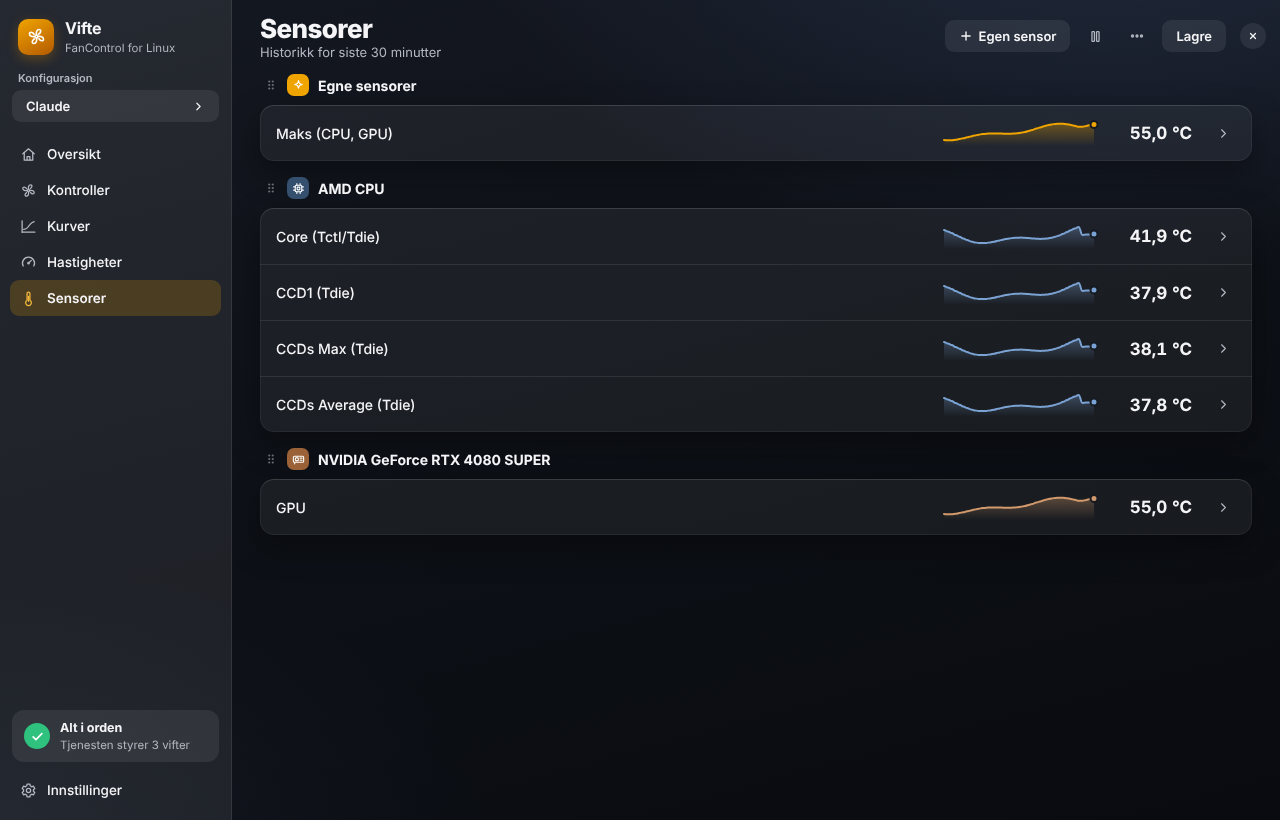
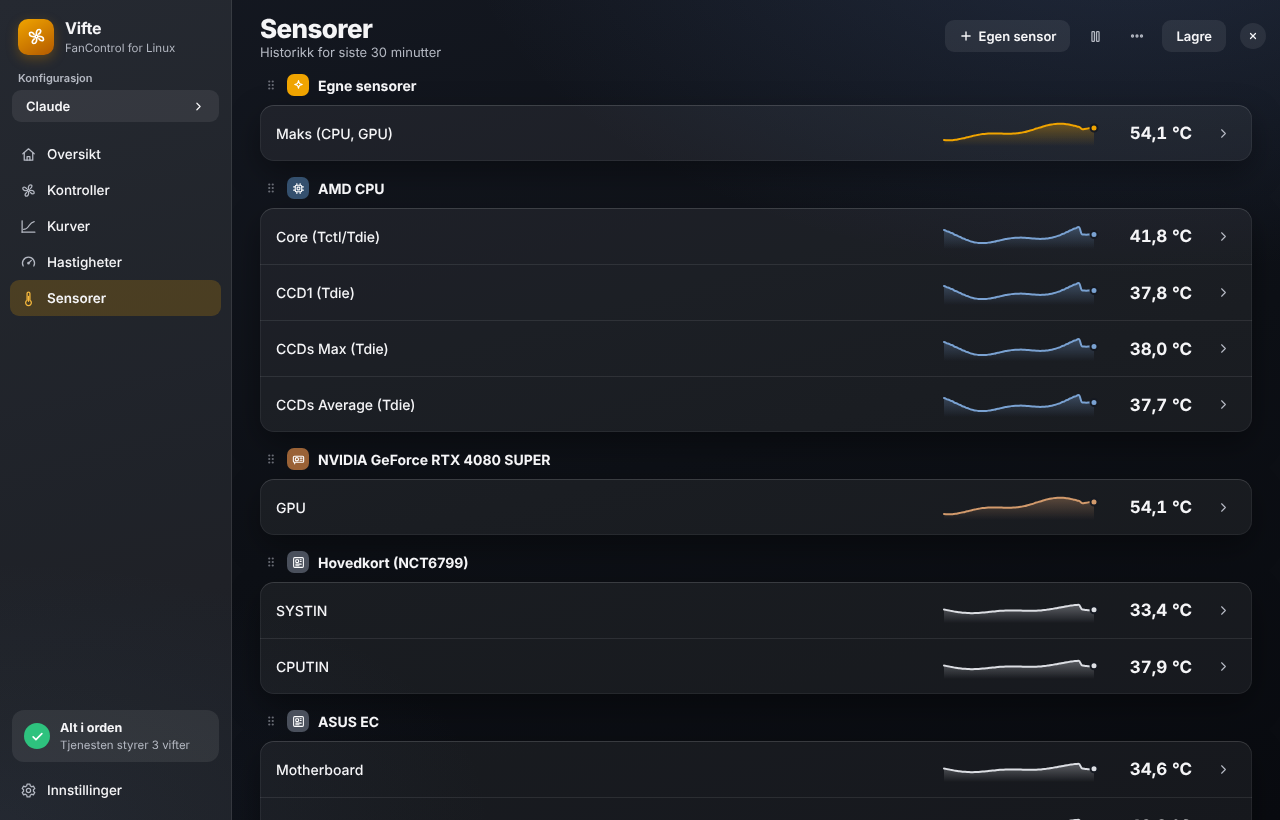
Redesign: temperaturkort for hovedkort og lagring på Oversikt
Oversikt viser nå fire temperaturkort: CPU, GPU, Hovedkort (valgfri
hovedkortsensor) og Lagring (varmeste disk, alle disker eller én valgt).
Snitt viftehastighet flyttes til Vifter-kortet og sikkerhetsstatus til
Beskyttelse-kortet. Spesifikasjon (beslutning 14), prototype og
skjermbilder er oppdatert.

Claude-Session: https://claude.ai/code/session_01DyDNbfoLzsxsyVxUrALKfq

diff --git a/docs/redesign/prototype.html b/docs/redesign/prototype.html
@@ -6,7 +6,7 @@
 <title>Vifte – prototype</title>
 <link rel="stylesheet" href="https://fonts.googleapis.com/css2?family=Inter:wght@400;500;600;700;800&display=swap">
 <style>
-:root { --cpu:#7AA2D2; --gpu:#D29A6C; --cpu-b:#34506E; --gpu-b:#9A6236; --fan:#7AA2D2; --fan-b:#34506E; --neutral:#DCDEE3; --idle:rgba(220,222,227,0.38); --acc:#F0A400; --acctext:#F5B83D; --calm:#2EC27E; --warm:#E5A50A; --hot:#E66100; --emerg:#E01B24; }
+:root { --cpu:#7AA2D2; --gpu:#D29A6C; --cpu-b:#34506E; --gpu-b:#9A6236; --fan:#7AA2D2; --fan-b:#34506E; --neutral:#DCDEE3; --idle:rgba(220,222,227,0.38); --neutral-b:#4A505C; --acc:#F0A400; --acctext:#F5B83D; --calm:#2EC27E; --warm:#E5A50A; --hot:#E66100; --emerg:#E01B24; }
 body[data-theme="dark"] {
   --bg: radial-gradient(75% 65% at 88% -12%, rgba(96,128,190,0.20) 0%, transparent 70%), radial-gradient(55% 45% at 0% 100%, rgba(70,90,130,0.12) 0%, transparent 70%), linear-gradient(165deg, #141821 0%, #0D1016 55%, #090B10 100%);
   --side: rgba(255,255,255,0.075); --card: rgba(255,255,255,0.055); --solid:#161A22; --popover:#1E222B; --text:#F5F5F7; --sub:#B4B8C2;
@@ -15,7 +15,7 @@ body[data-theme="dark"] {
   --glow: 26; color-scheme: dark;
 }
 body[data-theme="light"] {
-  --cpu:#2F5A8A; --gpu:#9A5B26; --cpu-b:#34506E; --gpu-b:#9A6236; --fan:#2F5A8A; --fan-b:#34506E; --neutral:#2E3138; --idle:rgba(46,49,56,0.32);  --acc:#C47F00; --acctext:#8F5D00;
+  --cpu:#2F5A8A; --gpu:#9A5B26; --cpu-b:#34506E; --gpu-b:#9A6236; --fan:#2F5A8A; --fan-b:#34506E; --neutral:#2E3138; --idle:rgba(46,49,56,0.32); --neutral-b:#5B616C;  --acc:#C47F00; --acctext:#8F5D00;
   --bg: radial-gradient(75% 65% at 88% -12%, rgba(120,150,205,0.22) 0%, transparent 70%), linear-gradient(165deg, #F2F4F8 0%, #E8EBF0 100%);
   --side: rgba(255,255,255,0.62); --card: rgba(255,255,255,0.66); --solid:#FFFFFF; --popover:#FFFFFF; --text:#1D1D1F; --sub:#55585E;
   --fill: rgba(0,0,0,0.055); --track: rgba(0,0,0,0.08); --line: rgba(0,0,0,0.08); --off:#C9CBD0; --sel: rgba(196,127,0,0.16);
@@ -214,6 +214,8 @@ const P = {
  chip:'<rect x="6" y="6" width="12" height="12" rx="2"/><rect x="9.5" y="9.5" width="5" height="5" rx="1"/><path d="M9 3v3M15 3v3M9 18v3M15 18v3M3 9h3M3 15h3M18 9h3M18 15h3"/>',
  gpu:'<rect x="2.5" y="6" width="19" height="11" rx="2"/><circle cx="9" cy="11.5" r="3"/><path d="M15 9.5h3.5M15 13.5h3.5M5 17v3"/>',
  grip:'<circle cx="9" cy="6" r="1"/><circle cx="15" cy="6" r="1"/><circle cx="9" cy="12" r="1"/><circle cx="15" cy="12" r="1"/><circle cx="9" cy="18" r="1"/><circle cx="15" cy="18" r="1"/>',
+ board:'<rect x="3" y="3" width="18" height="18" rx="2"/><rect x="7" y="7" width="5" height="5" rx="1"/><path d="M15 7h2M15 10h2M7 15h10M7 18h6"/>',
+ disk:'<rect x="3" y="7" width="18" height="10" rx="2"/><path d="M7 12h.01M11 12h.01M15 10.5v3M18 10.5v3"/>',
  copy:'<rect x="8" y="8" width="12" height="12" rx="2"/><path d="M16 8V5a1 1 0 0 0-1-1H5a1 1 0 0 0-1 1v10a1 1 0 0 0 1 1h3"/>'
 };
 const ic = (n, s = 16, sw = 1.8) => `<svg width="${s}" height="${s}" viewBox="0 0 24 24" fill="none" stroke="currentColor" stroke-width="${sw}" stroke-linecap="round" stroke-linejoin="round" aria-hidden="true">${P[n]}</svg>`;
@@ -228,15 +230,24 @@ const S = {
   config: "Claude", configs: ["Claude", "Stille", "Spill"],
   settings: { failsafe: true, failsafeTemp: 95, lost: true, lostSpeed: 80, alerts: true, alertSensor: "cpu", alertTemp: 85,
               showOverview: true, tint: false, trayTemps: true, autostart: true, claude: false, lang: "Norsk" },
-  temps: { cpu: 41.9, gpu: 54.0 }, hist: { cpu: mkHist(42, 2, 0), gpu: mkHist(53, 1.6, 1.3) },
+  temps: { cpu: 41.9, gpu: 54.0, mb: 33.5, nv0: 38.2, nv1: 43.1 },
+  hist: { cpu: mkHist(42, 2, 0), gpu: mkHist(53, 1.6, 1.3), mb: mkHist(33.5, .5, .4), nv0: mkHist(38.2, .7, 2.1), nv1: mkHist(43.1, .8, 3.3) },
   sensors: [
-    { id: "cpu", group: "AMD CPU", name: "Core (Tctl/Tdie)", hue: "cpu", off: 0 },
-    { id: "ccd1", group: "AMD CPU", name: "CCD1 (Tdie)", hue: "cpu", off: -4 },
-    { id: "ccdmax", group: "AMD CPU", name: "CCDs Max (Tdie)", hue: "cpu", off: -3.8 },
-    { id: "ccdavg", group: "AMD CPU", name: "CCDs Average (Tdie)", hue: "cpu", off: -4.1 },
-    { id: "gpu", group: "NVIDIA GeForce RTX 4080 SUPER", name: "GPU", hue: "gpu", off: 0 },
+    { id: "cpu", group: "AMD CPU", name: "Core (Tctl/Tdie)", hue: "cpu", base: "cpu", off: 0 },
+    { id: "ccd1", group: "AMD CPU", name: "CCD1 (Tdie)", hue: "cpu", base: "cpu", off: -4 },
+    { id: "ccdmax", group: "AMD CPU", name: "CCDs Max (Tdie)", hue: "cpu", base: "cpu", off: -3.8 },
+    { id: "ccdavg", group: "AMD CPU", name: "CCDs Average (Tdie)", hue: "cpu", base: "cpu", off: -4.1 },
+    { id: "gpu", group: "NVIDIA GeForce RTX 4080 SUPER", name: "GPU", hue: "gpu", base: "gpu", off: 0 },
+    { id: "mb_sys", group: "Hovedkort (NCT6799)", name: "SYSTIN", hue: "neutral", base: "mb", off: 0, board: true },
+    { id: "mb_cpu", group: "Hovedkort (NCT6799)", name: "CPUTIN", hue: "neutral", base: "mb", off: 4.5, board: true },
+    { id: "ec_mb", group: "ASUS EC", name: "Motherboard", hue: "neutral", base: "mb", off: 1.2, board: true },
+    { id: "ec_chip", group: "ASUS EC", name: "Chipset", hue: "neutral", base: "mb", off: 14.8, board: true },
+    { id: "ec_vrm", group: "ASUS EC", name: "VRM", hue: "neutral", base: "mb", off: 6.3, board: true },
+    { id: "nv0", group: "NVMe 0 (Samsung SSD 990 PRO 2TB)", name: "Composite", hue: "neutral", base: "nv0", off: 0, disk: "Samsung 990 PRO 2TB" },
+    { id: "nv1", group: "NVMe 1 (Samsung SSD 980 PRO 1TB)", name: "Composite", hue: "neutral", base: "nv1", off: 0, disk: "Samsung 980 PRO 1TB" },
     { id: "mix", group: "Egne sensorer", name: "Maks (CPU, GPU)", hue: "acc", custom: true },
   ],
+  boardSensor: "mb_sys", diskMode: "hottest", diskPick: "nv0",
   curves: [
     { name: "CPU", type: "Graf", src: "cpu", pts: [[50,22],[65,30],[75,50],[82,75],[88,95],[92,100]], up: 2, down: 4, resp: 2 },
     { name: "GPU", type: "Graf", src: "gpu", pts: [[40,30],[60,40],[75,70],[85,100]], up: 2, down: 4, resp: 2 },
@@ -259,7 +270,7 @@ S.fans.forEach(f => S.rpmHist[f.id] = Array(40).fill(0));
 try { const t = localStorage.getItem("vifte-proto-theme"); if (t) S.theme = t; } catch (e) {}
 
 // ---------- logic ----------
-function srcTemp(src) { const s = S.sensors.find(x => x.id === src) || { off: 0, id: src }; const base = s.hue === "gpu" ? S.temps.gpu : S.temps.cpu; return s.id === "mix" ? Math.max(S.temps.cpu, S.temps.gpu) : base + (s.off || 0); }
+function srcTemp(src) { const s = S.sensors.find(x => x.id === src) || { off: 0, id: src, base: "cpu" }; return sensorVal(s); }
 function interp(pts, t) {
   if (!pts.length) return 0;
   if (t <= pts[0][0]) return pts[0][1];
@@ -305,9 +316,9 @@ function controlledCount() { return S.fans.filter(f => f.on && f.curve && !f.pum
 function fanAvg() { const v = S.fans.filter(f => f.on && f.curve && !f.pump).map(f => S.out[f.id]); return v.length ? v.reduce((a, b) => a + b, 0) / v.length : null; }
 
 function tick() {
-  const tgt = S.load ? { cpu: 84, gpu: 76 } : { cpu: 42, gpu: 54 };
-  for (const k of ["cpu", "gpu"]) {
-    S.temps[k] += (tgt[k] - S.temps[k]) * 0.12 + (Math.random() - .5) * 0.8;
+  const tgt = S.load ? { cpu: 84, gpu: 76, mb: 39, nv0: 47, nv1: 54 } : { cpu: 42, gpu: 54, mb: 33.5, nv0: 38.2, nv1: 43.1 };
+  for (const k of Object.keys(tgt)) {
+    S.temps[k] += (tgt[k] - S.temps[k]) * (k === "cpu" || k === "gpu" ? 0.12 : 0.04) + (Math.random() - .5) * (k === "cpu" || k === "gpu" ? 0.8 : 0.25);
     S.hist[k].push(S.temps[k]); S.hist[k].shift();
   }
   computeOut();
@@ -371,18 +382,35 @@ function sidebar() {
 }
 
 // ---------- pages ----------
+function boardTile() {
+  const s = sensorById(S.boardSensor), v = sensorVal(s);
+  return `<div class="card tile"><div class="hd"><span>${badge("neutral", "board")}Hovedkort</span><span style="display:flex;align-items:center;gap:6px"><span data-live="chip-board">${chip(heat(v))}</span><button class="iconbtn" style="width:26px;height:26px" data-act="pickboard" aria-label="Velg sensor for hovedkort" aria-haspopup="menu">${ic("more", 15)}</button></span></div>
+   <div style="display:flex;align-items:center;justify-content:space-between;gap:8px"><div class="big" data-live="t-board">${fmt(v)}<small> °C</small></div><span data-live="sp-board">${sparkSVG(sensorHist(s, 30), "var(--neutral)", 84, 36, "board")}</span></div><div class="foot" style="margin-top:-6px">${esc(s.group.replace(/ \(.*\)/, ""))} · ${esc(s.name)}</div></div>`;
+}
+function diskInner() {
+  const list = shownDisks(), n = disks().length;
+  if (list.length === 1) { const d = list[0], v = sensorVal(d);
+    return `<div style="display:flex;align-items:center;justify-content:space-between;gap:8px"><div class="big">${fmt(v)}<small> °C</small></div>${sparkSVG(sensorHist(d, 30), "var(--neutral)", 84, 36, "disk")}</div>
+    <div class="foot" style="margin-top:-6px">${esc(d.disk)}${S.diskMode === "hottest" && n > 1 ? ` · varmest av ${n}` : ""}</div>`; }
+  return `<div style="display:flex;flex-direction:column;gap:7px;margin-top:2px">${list.map(d => { const v = sensorVal(d); return `<div style="display:flex;align-items:center;gap:8px"><span class="grow" style="font-size:12.5px;color:var(--sub);white-space:nowrap;overflow:hidden;text-overflow:ellipsis">${esc(d.disk.replace("Samsung ", ""))}</span><span data-heat style="width:6px;height:6px;border-radius:99px;flex-shrink:0;background:${HEAT_VAR[heat(v)]}" aria-hidden="true"></span><b class="tnum" style="font-size:16px;width:64px;text-align:right">${fmt(v)} °C</b></div>`; }).join("")}</div>`;
+}
+function diskTile() {
+  const hot = Math.max(...shownDisks().map(sensorVal));
+  return `<div class="card tile"><div class="hd"><span>${badge("neutral", "disk")}Lagring</span><span style="display:flex;align-items:center;gap:6px"><span data-live="chip-disk">${chip(heat(hot))}</span><button class="iconbtn" style="width:26px;height:26px" data-act="pickdisk" aria-label="Velg hvilke disker som vises" aria-haspopup="menu">${ic("more", 15)}</button></span></div><div data-live="diskinner">${diskInner()}</div></div>`;
+}
 function pageOverview() {
   const avg = fanAvg(), [st, t1, t2] = safety();
   const sc = st === "ok" ? "calm" : st === "emergency" ? "emergency" : "warm";
   const tile = (hue, icon, label, k, foot) => `<div class="card tile"><div class="hd"><span>${badge(hue, icon)}${label}</span><span data-live="chip-${k}">${chip(heat(S.temps[k]))}</span></div>
     <div style="display:flex;align-items:center;justify-content:space-between;gap:8px"><div class="big" data-live="t-${k}">${fmt(S.temps[k])}<small> °C</small></div><span data-live="sp-${k}">${sparkSVG(S.hist[k].slice(-30), `var(--${hue})`, 84, 36, k)}</span></div><div class="foot" style="margin-top:-6px">${foot}</div></div>`;
   return header("Oversikt", "Temperaturer og vifter akkurat nå") + banner() + `<div class="content">
-  <div class="grid4">${tile("cpu", "chip", "CPU", "cpu", "AMD CPU · Core (Tctl/Tdie)")}${tile("gpu", "gpu", "GPU", "gpu", "RTX 4080 SUPER")}
-   <div class="card tile"><div class="hd"><span>${badge("fan", "fan")}Vifter</span></div><div><div class="big" data-live="fanavg">${avg == null ? "–" : Math.round(avg)}<small> %</small></div><div class="foot">${controlledCount()} styrt · Pumper: 1</div></div></div>
-   <div class="card tile" data-live="safetytile"><div class="hd"><span>${`<span class="badge" style="background:${HEAT_VAR[sc]}">${ic("shield", 14, 2)}</span>`}Sikkerhet</span></div><div><div style="font-size:20px;font-weight:700;letter-spacing:-.3px;line-height:1.5">${t1}</div><div class="foot">${t2}</div></div></div></div>
+  <div class="grid4">${tile("cpu", "chip", "CPU", "cpu", "AMD CPU · Core (Tctl/Tdie)")}${tile("gpu", "gpu", "GPU", "gpu", "RTX 4080 SUPER")}${boardTile()}${diskTile()}</div>
   <section class="card" style="padding:16px 20px 12px"><div class="sechd"><h2>Temperatur <span>· siste 30 minutter</span></h2><div class="legend"><span><i style="background:var(--cpu)"></i>CPU</span><span><i style="background:var(--gpu)"></i>GPU</span></div></div><div data-live="bigchart">${bigChart()}</div></section>
-  <div class="row2"><section class="card"><div class="sechd"><h2>Vifter</h2><button class="link" data-nav="controls">Kontroller${ic("chev", 13, 2.2)}</button></div><div data-live="fanlist">${fanMini()}</div></section>
+  <div class="row2"><section class="card"><div class="sechd"><h2>Vifter</h2><button class="link" data-nav="controls">Kontroller${ic("chev", 13, 2.2)}</button></div>
+   <div style="display:flex;align-items:baseline;gap:10px;padding:2px 0 8px;border-bottom:0.5px solid var(--line);margin-bottom:4px"><span class="big" style="font-size:26px" data-live="fanavg">${avg == null ? "–" : Math.round(avg)}<small> %</small></span><span class="sub">snitt av styrte vifter · ${controlledCount()} styrt · Pumper: 1</span></div>
+   <div data-live="fanlist">${fanMini()}</div></section>
   <section class="card"><div class="sechd"><h2>Beskyttelse</h2><button class="link" data-nav="settings" data-setpage="safety">Innstillinger${ic("chev", 13, 2.2)}</button></div>
+   <div style="display:flex;align-items:center;gap:12px;padding:2px 0 10px;border-bottom:0.5px solid var(--line)"><span class="badge" style="width:34px;height:34px;border-radius:10px;background:${HEAT_VAR[sc]}">${ic(st === "ok" ? "shield" : "warn", 18, 2)}</span><div><div style="font-size:17px;font-weight:700;letter-spacing:-.2px">${t1}</div><div class="sub">${t2}</div></div></div>
    <div class="srow"><div class="t"><b>Nødmodus</b><span class="sub">Alle styrte vifter på 100 % ved ${S.settings.failsafeTemp} °C</span></div>${sw("failsafe", S.settings.failsafe, "Nødmodus")}</div>
    <div class="srow"><div class="t"><b>Sikring ved sensortap</b><span class="sub">${S.settings.lostSpeed} % hvis en kurves sensor forsvinner</span></div>${sw("lost", S.settings.lost, "Sikring ved sensortap")}</div>
    <div class="srow"><div class="t"><b>Styring</b><span class="sub">${S.paused ? "BIOS styrer viftene" : "Vifte styrer viftene"}</span></div><button class="btn" data-act="pause">${ic(S.paused ? "play" : "pause", 13)}${S.paused ? "Fortsett" : "Pause"}</button></div></section></div></div>`;
@@ -398,7 +426,7 @@ function banner() {
   return `<div class="banner">${ic("warn", 18, 2.2)} Nødmodus: temperaturen er over ${S.settings.failsafeTemp} °C – alle styrte vifter går på 100 %</div>`;
 }
 function groups(list) { const m = new Map(); list.forEach(x => { if (!m.has(x.group)) m.set(x.group, []); m.get(x.group).push(x); }); return [...m]; }
-const groupBadge = g => g.startsWith("NVIDIA") ? badge("gpu", "gpu", 22) : g.startsWith("AMD") ? badge("cpu", "chip", 22) : g.startsWith("Egne") ? badge("acc", "spark", 22) : badge("fan", "chip", 22);
+const groupBadge = g => g.startsWith("NVIDIA") ? badge("gpu", "gpu", 22) : g.startsWith("AMD") ? badge("cpu", "chip", 22) : g.startsWith("Egne") ? badge("acc", "spark", 22) : g.startsWith("NVMe") ? badge("neutral", "disk", 22) : (g.startsWith("ASUS") || g.startsWith("Hovedkort")) && S.page === "sensors" ? badge("neutral", "board", 22) : badge("fan", "board", 22);
 function pageControls() {
   return header("Kontroller", `${S.fans.length} vifter · ${controlledCount()} styrt av Vifte`) + banner() + `<div class="content">` + groups(S.fans).map(([g, fans]) => `<section><h2 class="group-title"><span class="grip" title="Dra for å flytte gruppen">${ic("grip", 14)}</span>${groupBadge(g)}${esc(g)}</h2><div class="inset">` +
     fans.map(f => { const act = f.on && f.curve && !S.paused, hue = act ? "var(--neutral)" : "var(--idle)";
@@ -475,8 +503,11 @@ function pageSpeeds() {
   return header("Hastigheter", "Turtall fra alle viftesensorer") + `<div class="content">` + groups(S.fans).map(([g, fans]) => `<section><h2 class="group-title"><span class="grip">${ic("grip", 14)}</span>${groupBadge(g)}${esc(g)}</h2><div class="inset">` +
     fans.map(f => `<div class="lrow"><span class="grow name" style="font-weight:500">${esc(f.name)}</span><span class="sp" data-live="rs-${f.id}">${sparkSVG(S.rpmHist[f.id], `var(--${fanHue(f)})`, 150, 28, "r" + f.id)}</span><span class="pct" style="width:110px" data-live="rv-${f.id}">${f.rpm} RPM</span><button class="iconbtn" aria-label="Detaljer" data-act="toast" data-msg="Sensordetaljer: navn, skjul kort">${ic("chev", 15)}</button></div>`).join("") + `</div></section>`).join("") + `</div>`;
 }
-function sensorVal(s) { return s.id === "mix" ? Math.max(S.temps.cpu, S.temps.gpu) : (s.hue === "gpu" ? S.temps.gpu : S.temps.cpu) + (s.off || 0); }
-function sensorHist(s) { const b = s.hue === "gpu" ? S.hist.gpu : S.hist.cpu; return s.id === "mix" ? S.hist.cpu.map((v, i) => Math.max(v, S.hist.gpu[i])).slice(-40) : b.slice(-40).map(v => v + (s.off || 0)); }
+function sensorVal(s) { return s.id === "mix" ? Math.max(S.temps.cpu, S.temps.gpu) : S.temps[s.base || "cpu"] + (s.off || 0); }
+function sensorHist(s, n = 40) { return s.id === "mix" ? S.hist.cpu.map((v, i) => Math.max(v, S.hist.gpu[i])).slice(-n) : S.hist[s.base || "cpu"].slice(-n).map(v => v + (s.off || 0)); }
+const sensorById = id => S.sensors.find(x => x.id === id);
+const disks = () => S.sensors.filter(x => x.disk);
+function shownDisks() { const d = disks(); if (S.diskMode === "all") return d; if (S.diskMode === "pick") return [sensorById(S.diskPick) || d[0]]; return [d.reduce((a, b) => sensorVal(b) > sensorVal(a) ? b : a)]; }
 function pageSensors() {
   const order = [...S.sensors].sort((a, b) => (b.custom ? 1 : 0) - (a.custom ? 1 : 0));
   return header("Sensorer", "Historikk for siste 30 minutter", `<button class="btn" data-act="toast" data-msg="Legg til egen sensor: Miks, Avvik, Fil …">${ic("plus", 14, 2.4)}Egen sensor</button>`) + `<div class="content">` + groups(order).map(([g, ss]) => `<section><h2 class="group-title"><span class="grip">${ic("grip", 14)}</span>${groupBadge(g)}${esc(g)}</h2><div class="inset">` +
@@ -493,7 +524,6 @@ function pageSettings() {
   if (S.setPage === "general") body =
     sec("Språk / Language", row("Språk", null, `<select class="pop" data-set="lang" aria-label="Språk">${["Norsk", "English", "Deutsch", "Français", "Español"].map(l => `<option ${s.lang === l ? "selected" : ""}>${l}</option>`).join("")}</select>`)) +
     sec("Visning", row("Utseende", "Følger systemet i den ferdige appen", `<div class="seg" role="group" aria-label="Utseende"><button aria-pressed="${S.theme === "light"}" data-theme-set="light">Lys</button><button aria-pressed="${S.theme === "dark"}" data-theme-set="dark">Mørk</button></div>`) +
-      row("Vis oversiktsruter", "CPU, GPU, vifter og sikkerhet øverst på sidene", sw("set:showOverview", s.showOverview, "Vis oversiktsruter")) +
       row("Fargetone etter temperatur", "Av som standard i dette designet", sw("set:tint", s.tint, "Fargetone etter temperatur"))) +
     sec("Statusfelt", row("Vis temperaturer i statusfeltet", null, sw("set:trayTemps", s.trayTemps, "Vis temperaturer i statusfeltet"))) +
     sec("Tjeneste", row("Start Vifte ved innlogging", null, sw("set:autostart", s.autostart, "Start ved innlogging")) + row("Avinstaller Vifte", "Fjerner tjenesten og gir viftene tilbake til BIOS", `<button class="btn" style="color:var(--emerg)" data-act="toast" data-msg="Avinstallering er ikke med i prototypen">Avinstaller …</button>`));
@@ -528,6 +558,8 @@ function live() {
   if (em !== lastEm) { lastEm = em; render(); return; }
   for (const k of ["cpu", "gpu"]) { set("t-" + k, `${fmt(S.temps[k])}<small> °C</small>`); set("chip-" + k, chip(heat(S.temps[k]))); set("sp-" + k, sparkSVG(S.hist[k].slice(-30), `var(--${k})`, 84, 36, k)); }
   const avg = fanAvg(); set("fanavg", `${avg == null ? "–" : Math.round(avg)}<small> %</small>`);
+  { const bs = sensorById(S.boardSensor), bv = sensorVal(bs); set("t-board", `${fmt(bv)}<small> °C</small>`); set("chip-board", chip(heat(bv))); set("sp-board", sparkSVG(sensorHist(bs, 30), "var(--neutral)", 84, 36, "board"));
+    set("diskinner", diskInner()); set("chip-disk", chip(heat(Math.max(...shownDisks().map(sensorVal))))); }
   set("bigchart", bigChart()); set("fanlist", fanMini());
   S.fans.forEach(f => { const act = f.on && f.curve && !S.paused; set("rpm-" + f.id, act ? f.rpm + " RPM" : f.k ? "BIOS styrer" : "0 RPM"); set("pct-" + f.id, S.out[f.id] + " %");
     const b = app.querySelector(`[data-live="bar-${f.id}"]`); if (b) b.style.width = S.out[f.id] + "%";
@@ -587,6 +619,8 @@ app.addEventListener("click", e => {
     case "configs": popover(t, `<div class="ph">Konfigurasjoner</div>${S.configs.map(c => `<button role="menuitem" data-cfg="${esc(c)}">${c === S.config ? ic("check", 15, 2.4) : `<span style="width:15px"></span>`}${esc(c)}</button>`).join("")}`); break;
     case "menu": popover(t, ["Importer FanControl-konfigurasjon …", "Eksporter konfigurasjon …", "Ny tom konfigurasjon …", "Lagre som …", "Slett konfigurasjon …", "|", "Par vifter automatisk", "Koble manglende sensorer …", "Søk etter maskinvare på nytt", "|", "Åpne Stress", "|", "Vis skjulte kort", (S.paused ? "Fortsett styring" : "Pause styring (BIOS overtar)"), "Innstillinger …", "Se etter oppdateringer …", "Om Vifte", "|", "Avslutt"]
       .map(x => x === "|" ? "<hr>" : `<button role="menuitem" data-menu="${esc(x)}">${esc(x)}</button>`).join("")); break;
+    case "pickboard": popover(t, `<div class="ph">Sensor for hovedkort</div>${S.sensors.filter(x => x.board).map(x => `<button role="menuitemradio" aria-checked="${x.id === S.boardSensor}" data-board="${x.id}">${x.id === S.boardSensor ? ic("check", 15, 2.4) : `<span style="width:15px"></span>`}${esc(x.group.replace(/ \(.*\)/, ""))} · ${esc(x.name)}<span class="grow"></span><span class="sub tnum">${fmt(sensorVal(x))} °C</span></button>`).join("")}`); break;
+    case "pickdisk": popover(t, `<div class="ph">Vis i Lagring</div>${[["hottest", "Den varmeste disken"], ["all", "Alle disker"]].map(([m, l]) => `<button role="menuitemradio" aria-checked="${S.diskMode === m}" data-diskmode="${m}">${S.diskMode === m ? ic("check", 15, 2.4) : `<span style="width:15px"></span>`}${l}</button>`).join("")}<hr><div class="ph">Eller én bestemt disk</div>${disks().map(d => { const on = S.diskMode === "pick" && S.diskPick === d.id; return `<button role="menuitemradio" aria-checked="${on}" data-diskpick="${d.id}">${on ? ic("check", 15, 2.4) : `<span style="width:15px"></span>`}${esc(d.disk)}<span class="grow"></span><span class="sub tnum">${fmt(sensorVal(d))} °C</span></button>`; }).join("")}`); break;
     case "newcurve": { let n = 1; while (S.curves.some(c => c.name === "Ny kurve " + n)) n++; S.curves.push({ name: "Ny kurve " + n, type: "Graf", src: "cpu", pts: [[40, 25], [60, 40], [80, 80], [90, 100]], up: 2, down: 4, resp: 2 }); S.selCurve = S.curves.length - 1; dirty(); render(); break; }
     case "rename": { const c = S.curves[S.selCurve]; dialog(`<h3>Gi nytt navn</h3><input type="text" id="nm" value="${esc(c.name)}" aria-label="Navn"><div style="display:flex;gap:10px;justify-content:flex-end"><button class="btn" data-act="cancel">Avbryt</button><button class="btn primary" data-act="okname">Lagre</button></div>`); break; }
     case "okname": { const c = S.curves[S.selCurve], v = app.querySelector("#nm").value.trim(); if (v) { S.fans.forEach(f => { if (f.curve === c.name) f.curve = v; }); S.curves.forEach(x => { if (x.of) x.of = x.of.map(n => n === c.name ? v : n); }); c.name = v; dirty(); } closePop(); render(); break; }
@@ -594,6 +628,9 @@ app.addEventListener("click", e => {
     case "okfan": { const f = S.fans.find(x => x.id === S.fanEdit), v = app.querySelector("#nm").value.trim(); if (v) f.name = v; dirty(); closePop(); render(); break; }
     case "cancel": closePop(); break;
   }
+  if (d.board) { S.boardSensor = d.board; closePop(); render(); return; }
+  if (d.diskmode) { S.diskMode = d.diskmode; closePop(); render(); return; }
+  if (d.diskpick) { S.diskMode = "pick"; S.diskPick = d.diskpick; closePop(); render(); return; }
   if (d.cfg) { S.config = d.cfg; S.dirty = false; closePop(); render(); toast(`Byttet til «${d.cfg}»`); }
   if (d.menu) { closePop(); if (d.menu.startsWith("Pause") || d.menu.startsWith("Fortsett")) { S.paused = !S.paused; render(); } else if (d.menu === "Innstillinger …") { S.prev = S.page; S.page = "settings"; render(); } else toast(d.menu.replace(" …", "") + " – ikke med i prototypen"); }
 });

diff --git a/docs/redesign/README.md b/docs/redesign/README.md
@@ -21,7 +21,8 @@ Prototypen er HTML/CSS, ikke GTK. Bruk den som fasit for **hva** det skal se ut 
    standard i GNOME. Font: systemfonten (Adwaita Sans i GNOME 48+, som bygger på Inter).
 2. **Navigasjon i sidefelt til venstre** i stedet for `Adw.ViewSwitcher` øverst.
    Rekkefølge: Oversikt, Kontroller, Kurver, Hastigheter, Sensorer. Nederst: statuskort og Innstillinger.
-3. **Ny side: Oversikt** (første side). Samler det som i dag er oversiktsrutene øverst på hver side.
+3. **Ny side: Oversikt** (første side). Fire temperaturkort øverst (CPU, GPU, Hovedkort, Lagring), stor
+   historikkgraf, og nederst kortene Vifter og Beskyttelse. Se beslutning 14.
 4. **Glass, men statisk:** nesten-sort (mørk) / lys gråblå (lys) bakgrunn med et svakt blått skjær øverst til
    høyre. Kort og sidefelt er halvgjennomsiktige med en tynn lys kant øverst. **Ingen uskarphet** (GTK har
    ikke `backdrop-filter`).
@@ -33,8 +34,9 @@ Prototypen er HTML/CSS, ikke GTK. Bruk den som fasit for **hva** det skal se ut 
    - Vifte-oransje = aksent (Lagre, brytere, valgt side)
    - Statusfarger (grønn/gul/oransje/rød) brukes bare for tilstand, alltid sammen med tekst.
 7. **Oversiktskortene er nøytrale.** Ingen fargenyanse i bakgrunnen. Farge bare i det lille ikonet og i
-   sparkline. Sikkerhet-kortet: bare ikonet skifter farge (grønn = i orden, gul = pause/nødmodus av,
-   rød = nødmodus).
+   sparkline: CPU marineblå, GPU kobber, Hovedkort og Lagring nøytral grå (`#4A505C` mørk / `#5B616C` lys,
+   sparkline i `vifte_neutral`). Sikkerhetsstatusen står øverst i Beskyttelse-kortet; der skifter bare
+   ikonet farge (grønn = i orden, gul = pause/nødmodus av/sensor borte, rød = nødmodus).
 8. **Viftelister er nøytrale:** hvitgrå ikoner og stolper i mørk modus, nesten sort i lys. Vifter som ikke
    styres (BIOS) får svakere tone + teksten «BIOS styrer». Gjelder både Oversikt og Kontroller.
 9. **Dialoger forblir rolige og ugjennomsiktige** (som i dag). Glasset gjelder hovedvinduet.
@@ -50,6 +52,25 @@ Prototypen er HTML/CSS, ikke GTK. Bruk den som fasit for **hva** det skal se ut 
     stedet for %, og i Fahrenheit-modus °F.
 13. **Temperaturaksen** (min/maks, i dag gruppen «Akse» i `CurveDialog`) beholdes, som to stegvelgere under
     punktene.
+14. **Temperaturkortene på Oversikt** (endret 21. november):
+    - **CPU** og **GPU** som før (`auto_tray_sensor("cpu"/"gpu")`).
+    - **Hovedkort:** viser én hovedkortsensor. ⋯-knappen i kortet åpner en meny med alle temperatursensorer
+      fra hovedkortbrikker (id-er som begynner med `/lpc/`, `/hwmon/asusec/`, `/hwmon/asus_wmi_sensors/`).
+      Standard: første sensor med navn «Motherboard», ellers «SYSTIN», ellers første hovedkortsensor.
+      Valget lagres i `settings.json` som `overview_board_sensor` (sensor-id).
+    - **Lagring:** disker = temperatursensorer med id som begynner med `/nvme/` eller `/hdd/` (vis modellnavnet
+      fra gruppetittelen, f.eks. «Samsung 990 PRO 2TB»). ⋯-menyen har tre valg: *Den varmeste disken*
+      (standard; undertekst «varmest av N»), *Alle disker* (én linje per disk med navn, statusprikk og verdi)
+      og *én bestemt disk*. Lagres som `overview_disk_mode` (`hottest` / `all` / `pick`) og
+      `overview_disk_pick` (sensor-id).
+    - Finnes ingen slik sensor, viser kortet «Ingen sensor funnet» og menyen lar deg velge en hvilken som helst
+      temperatursensor.
+    - Statusmerket (Rolig/Varm/Het) bruker de samme tersklene som CPU/GPU.
+    - **Snitt viftehastighet** flyttes til toppen av Vifter-kortet nederst: stort tall + «snitt av styrte vifter
+      · N styrt · Pumper: N» (samme tall som dagens `fan_summary`).
+    - **Sikkerhet** flyttes til toppen av Beskyttelse-kortet: ikon + tekst fra `safety_state()`.
+    - De to valgmenyene er nye innstillinger – et bevisst, lite unntak fra «ingen nye funksjoner».
+    Velgerlogikken (standardvalg, varmeste disk) legges i `look.py` så den kan testes uten skjerm.
 
 ### Åpne spørsmål (avklares før/under fase 2)
 (Ingen – alle er avklart.)
@@ -139,13 +160,14 @@ Til slutt «Innstillinger».
 innhold som dagens `Gio.Menu`), Lagre (aksentfarge når `dirty`), lukk.
 
 **Oversikt**
-- Fire kort: CPU, GPU, Vifter, Sikkerhet. Samme data som dagens `update_overview()`.
-  CPU/GPU: ikonflate + navn, statusmerke (Rolig/Varm/Het), stort tall, sparkline (eksisterende `Sparkline`),
-  undertekst med sensornavn. Vifter: snitt % + «N styrt · Pumper: N». Sikkerhet: tekst fra `safety_state()`.
+- Fire temperaturkort: CPU, GPU, Hovedkort, Lagring (se beslutning 14). Hvert kort: ikonflate + navn,
+  statusmerke (Rolig/Varm/Het), stort tall, sparkline (eksisterende `Sparkline`), undertekst med sensornavn.
+  Hovedkort og Lagring har en ⋯-knapp for valg av sensor/visning.
 - Stort graf-kort: «Temperatur · siste 30 minutter», CPU og GPU fra `history` (finnes i daemon, 360 punkter),
   stiplet nødlinje når nødmodus er på og grensen er innenfor aksen. Ny `Gtk.DrawingArea`-klasse i `graph.py`.
-- Nederst to kort: «Vifter» (nøytral liste, lenke til Kontroller) og «Beskyttelse» (brytere for nødmodus og
-  sikring ved sensortap – samme innstillinger som i Innstillinger – og Pause/Fortsett, lenke til Innstillinger).
+- Nederst to kort: «Vifter» (øverst snitt % for styrte vifter, så nøytral liste, lenke til Kontroller) og
+  «Beskyttelse» (øverst sikkerhetsstatus med farget ikon, så brytere for nødmodus og sikring ved sensortap –
+  samme innstillinger som i Innstillinger – og Pause/Fortsett, lenke til Innstillinger).
 
 **Kontroller** – dagens kort blir grupperte lister (`Adw.PreferencesGroup`-lignende inset-lister) per maskinvare.
 Rad: nøytralt vifteikon, navn + RPM/«BIOS styrer», kurvevelger, prosent, stolpe, bryter, tannhjul
@@ -171,7 +193,7 @@ Endring: «Farge følger temperaturen» er av som standard.
 | Lys/mørk | `apply_style_mode()` (klassen `vifte-light`) | Behold mønsteret; legg til høykontrast-sjekk. |
 | Fargetone | `update_tint()`, `set_tint()`, `get_setting("tint_enabled", True)` | Standard `False` (to steder: `update_tint` og innstillingsraden ca. linje 1450). |
 | Navigasjon | `MainWindow.__init__`: `Adw.ViewStack` + `Adw.ViewSwitcher` + `Adw.ViewSwitcherBar` + breakpoint | `Adw.NavigationSplitView` med `Gtk.ListBox` (`navigation-sidebar`) i sidefeltet; behold `ViewStack` som innhold. Sidefeltet kollapser på smal skjerm (breakpoint). |
-| Oversikt | `build_overview()`, `update_overview()`, `Tile`, `set_overview()` | Bygg Oversikt-side; gjenbruk logikken i `update_overview()` og `look.py`. Fjern rutene fra de andre sidene og innstillingen `overview_enabled`. |
+| Oversikt | `build_overview()`, `update_overview()`, `Tile`, `set_overview()`, `auto_tray_sensor()` | Bygg Oversikt-side; gjenbruk logikken i `update_overview()` og `look.py`. `tile_fans`/`tile_safety` erstattes av Hovedkort og Lagring; snitt og sikkerhet flyttes til kortene nederst. Nye velgere i `look.py` (testes). Fjern rutene fra de andre sidene og innstillingen `overview_enabled`. |
 | Grafer | `graph.py`: `Sparkline`, `CurveGraph`, `_color()` | Sparkline får fargeparameter (cpu/gpu/neutral) i stedet for alltid `accent_color`. Ny graf for CPU+GPU-historikk. |
 | Kontroller | `build_controls()` | Kort → listerader. |
 | Kurver | `build_curves()`, `CurveDialog` (`dialogs.py`) | Liste + detalj; gjenbruk byggefunksjonene i `CurveDialog` (`build_graph`, `build_linear` …). Punkt-merkene blir redigerbare (`Gtk.SpinButton` eller `Gtk.Entry` med validering i hvert merke) – se beslutning 12. |
